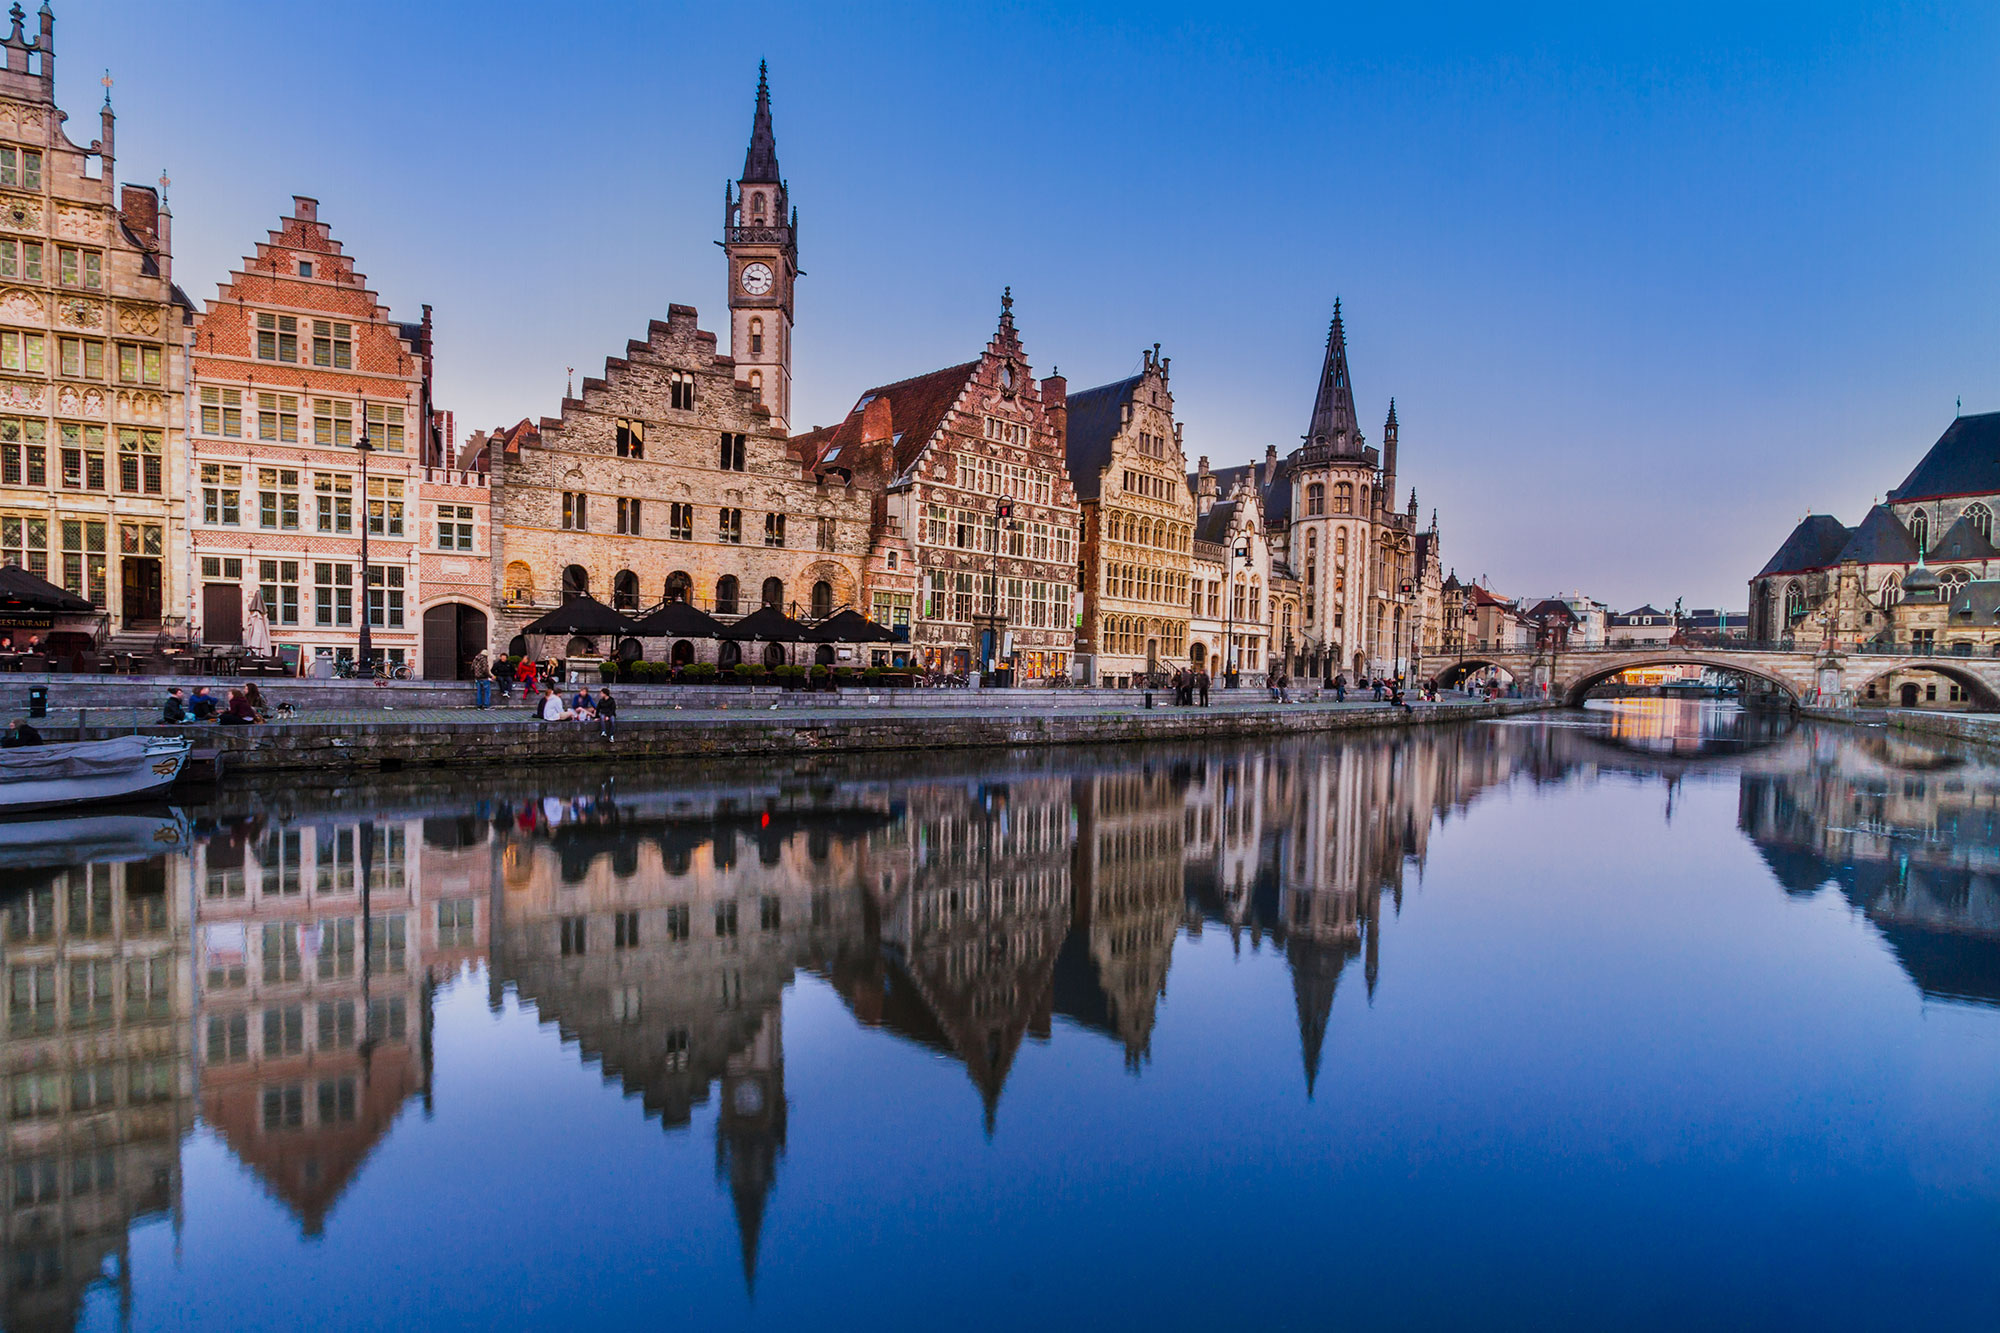
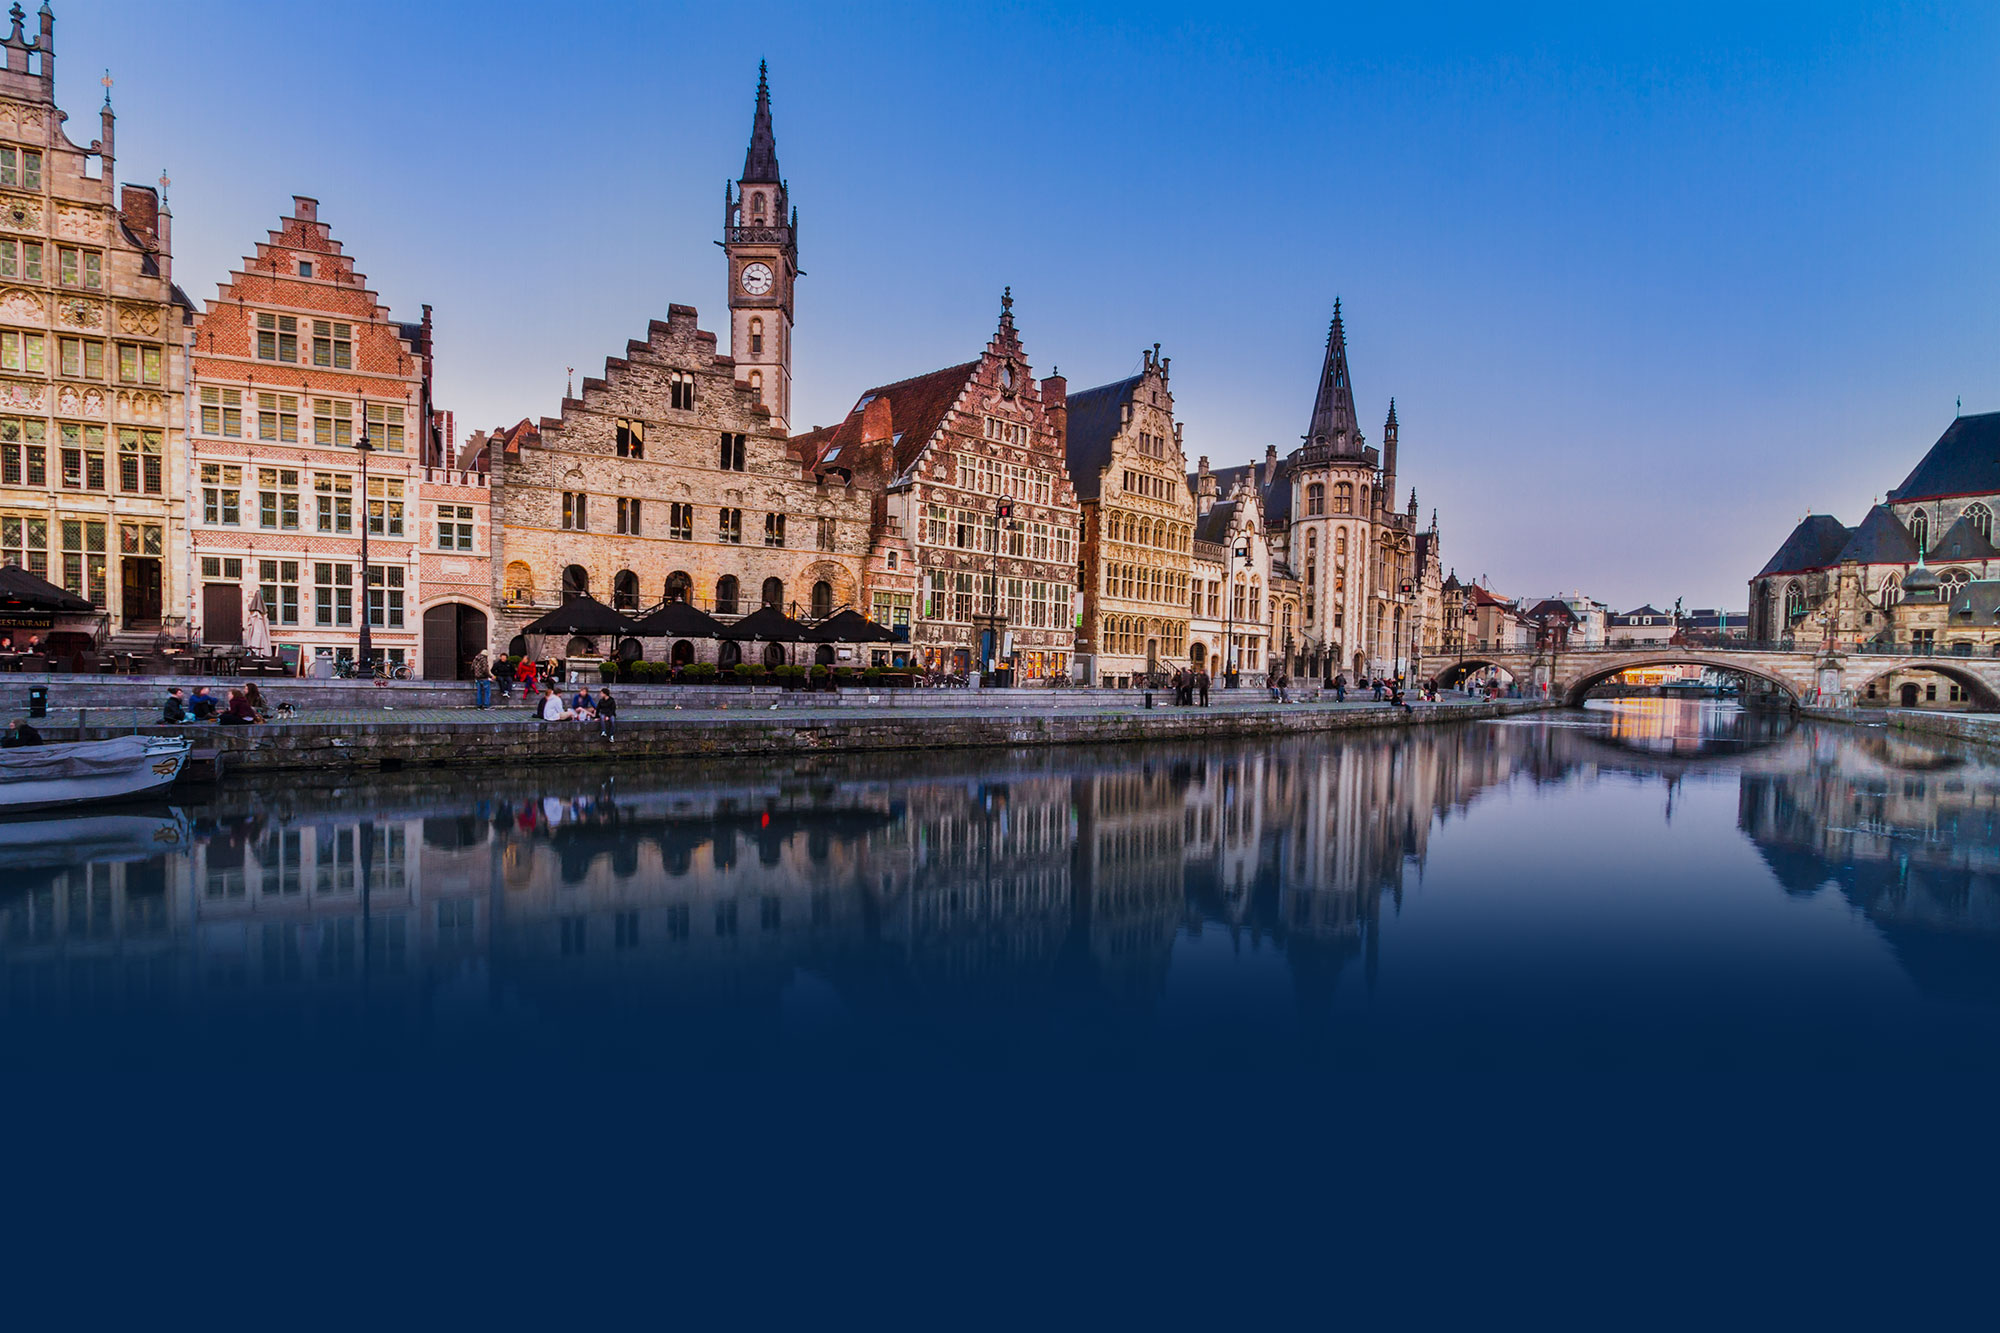
update

diff --git a/index.html b/index.html
@@ -22,14 +22,16 @@
         <!-- Add your site or application content here -->
 
         <div class="img-container">
+            <div class="bg-img"></div>
             <div class="inner">
                 <div class="svg-container">
-                    <svg version="1.1" id="my-svg"
+                    <!-- Generator: Adobe Illustrator 19.0.1, SVG Export Plug-In  -->
+<svg version="1.1" id="my-svg"
      xmlns="http://www.w3.org/2000/svg" xmlns:xlink="http://www.w3.org/1999/xlink" xmlns:a="http://ns.adobe.com/AdobeSVGViewerExtensions/3.0/"
-     x="0px" y="0px" width="1503px" height="587.2px" viewBox="0 0 1503 587.2" style="enable-background:new 0 0 1503 587.2;"
+     x="0px" y="0px" width="1503px" height="839px" viewBox="0 0 1503 839" style="enable-background:new 0 0 1503 839;"
      xml:space="preserve">
 <style type="text/css">
-    .st0{fill:none;stroke:#fff;stroke-width:4;stroke-linecap:round;stroke-linejoin:round;stroke-miterlimit:10;}
+    .st0{fill:none;stroke:#ffffff;stroke-width:2;stroke-linecap:round;stroke-linejoin:round;stroke-miterlimit:10;}
 </style>
 <defs>
 </defs>
@@ -132,7 +134,35 @@
 <path class="st0" d="M985,470.4l-3.8-0.4l1.2-69.3c0,0,1.2-4.2,4.5-4c3.3,0.2,3.2,3.3,3.2,3.3l-1.3,70.8"/>
 <path class="st0" d="M1006.2,481.2h-4.2l3-81.2c0,0,1.5-4.5,4-4.5s4,4.3,4,4.3l-3.2,81.3"/>
 <path class="st0" d="M1021.6,484.9l-0.8-0.5l1.7-81c0,0,1-7.2,2.3-6.7c1.3,0.5,1.8,6.7,1.8,6.7l-1.7,83.5"/>
+<g fill="#ffffff">
+    <path d="M428.4,693.7c0-46.4,33.6-79.6,79.8-79.6c23.8,0,42.5,6.6,55.1,20.8L547,651.2c-8.9-9.4-20.3-15.3-38.9-15.3
+        c-32.5,0-55.1,24.7-55.1,57.8s22.9,58.1,58.1,58.1c16,0,29.7-4.1,38.4-10.1v-27.4h-41.8V693h64v60.6c-10.1,9.1-31.6,19.9-60.6,19.9
+        C462.7,773.5,428.4,740.1,428.4,693.7z"/>
+    <path d="M604.9,616h24.2v83.7h74.8V616h24.2v155.5h-24.2v-50.3h-74.8v50.3h-24.2V616z"/>
+    <path d="M765.6,616h98.8v21.3h-74.5v60.4h66.1v20.8h-66.1v31.8h77.7v21.3h-102V616z"/>
+    <path d="M935.2,680.7c-6.2-6.6-14.6-17.4-14.6-17.4s1.6,12.8,1.6,22.4v85.7h-22.4V614.4h3.2l85.7,92.1c5.9,6.4,14.4,17.4,14.4,17.4
+        s-1.6-13.7-1.6-22.4V616h22.4v157.1h-3L935.2,680.7z"/>
+    <path d="M1096.2,637.2H1050V616h116.4v21.3h-46.2v134.2h-24V637.2z"/>
+    <path d="M418.7,831.8l14.2-13c4.7-4.3,7.4-7.4,7.4-11.3c0-4.3-2.9-6.5-6.9-6.5c-4.3,0-7.2,2.5-8.8,7.1l-4.5-1.3
+        c1.7-6.4,6.7-10.4,13.2-10.4c7.4,0,12,4.3,12,10.8c0,4.8-3.5,9.1-8.5,13.7l-5.3,4.8c-1.3,1.2-3.6,2.5-3.6,2.5s2.6-0.2,3.9-0.2h14.5
+        v4.3h-27.6V831.8z"/>
+    <path d="M472.3,801.4h-20.7v-4.2h27.3v0.6L459.7,839h-5L472.3,801.4z"/>
+    <path d="M481.7,814h13.5v4.4h-13.5V814z"/>
+    <path d="M498.7,831.8l14.2-13c4.7-4.3,7.4-7.4,7.4-11.3c0-4.3-2.9-6.5-6.9-6.5c-4.3,0-7.2,2.5-8.8,7.1l-4.5-1.3
+        c1.7-6.4,6.7-10.4,13.2-10.4c7.4,0,12,4.3,12,10.8c0,4.8-3.5,9.1-8.5,13.7l-5.3,4.8c-1.3,1.2-3.6,2.5-3.6,2.5s2.6-0.2,3.9-0.2h14.5
+        v4.3h-27.6V831.8z"/>
+    <path d="M532.5,819.9c0-6,3.9-10,9.5-11.6c-3.6-1.4-6.1-4.3-6.1-8.6c0-5.8,5-10.5,12-10.5c7.1,0,12.1,4.7,12.1,10.5
+        c0,4.3-2.6,7.2-6.1,8.6c5.5,1.6,9.5,5.7,9.5,11.6c0,7.5-6.2,13.1-15.5,13.1C538.7,833,532.5,827.4,532.5,819.9z M558.2,819.6
+        c0-5.4-4.1-9.2-10.3-9.2c-6.2,0-10.3,3.8-10.3,9.2s4.1,9,10.3,9C554.1,828.6,558.2,825,558.2,819.6z M555.1,799.9
+        c0-3.9-3-6.6-7.2-6.6c-4.3,0-7.2,2.7-7.2,6.6c0,3.9,2.9,6.5,7.2,6.5C552.2,806.4,555.1,803.8,555.1,799.9z"/>
+    <path d="M589.2,784.3h0.7l22.1,27.7l22-27.7h0.8v48.2h-4.9V801c0-2.2,0.2-5.5,0.2-5.5s-1.8,3.1-3.4,5l-14.4,18.2h-0.8l-14.2-18.2
+        c-1.5-1.9-3.4-5-3.4-5s0.3,3.3,0.3,5.5v31.4h-4.9V784.3z"/>
+    <path d="M663.7,784.4h0.8l20.2,48.1h-5.3l-3.2-8H652l-3.2,8h-5L663.7,784.4z M674.3,820.1l-8.4-21.1c-0.9-2.2-1.8-5.7-1.8-5.7
+        s-1,3.4-1.9,5.7l-8.4,21.1H674.3z"/>
+    <path d="M700.8,817.5l-18-32.7h5.7l13,23.7c1.1,1.8,2,4.8,2,4.8s1.1-2.9,2-4.8l12.9-23.7h5.2L706,817.3v15.1h-5.2V817.5z"/>
+</g>
 </svg>
+
                 </div>
                 <div class="content-container"></div>
             </div>

diff --git a/css/main.css b/css/main.css
@@ -11,9 +11,10 @@
    ========================================================================== */
 
 html {
-    color: #222;
+    color: #fff;
     font-size: 1em;
     line-height: 1.4;
+    background-color: #032448;
 }
 
 #my-svg{
@@ -24,8 +25,6 @@ html {
 .img-container{
     position: relative;
     padding-bottom: 66%;
-    background: url('../img/bg.jpg') center center no-repeat;
-    background-size: cover;
 }
 
 .svg-container{
@@ -33,12 +32,19 @@ html {
     top: -4px;
 }
 
-.img-container .inner{
+.img-container .inner,
+.img-container .bg-img{
     position: absolute;
     top: 0;
     bottom: 0;
     right: 0;
     left: 0;
+}
+
+.bg-img{
+    opacity: 0;
+    background: url('../img/bg.jpg') center center no-repeat;
+    background-size: cover;
 }
 /*
  * Remove text-shadow in selection highlight:

diff --git a/js/main.js b/js/main.js
@@ -3,3 +3,8 @@ new Vivus('my-svg', {
     duration: 200,
     animTimingFunction: Vivus.EASE
 });
+
+
+setTimeout(function(){ 
+  $(".bg-img").fadeTo( "slow" , 1);
+ }, 2000);
